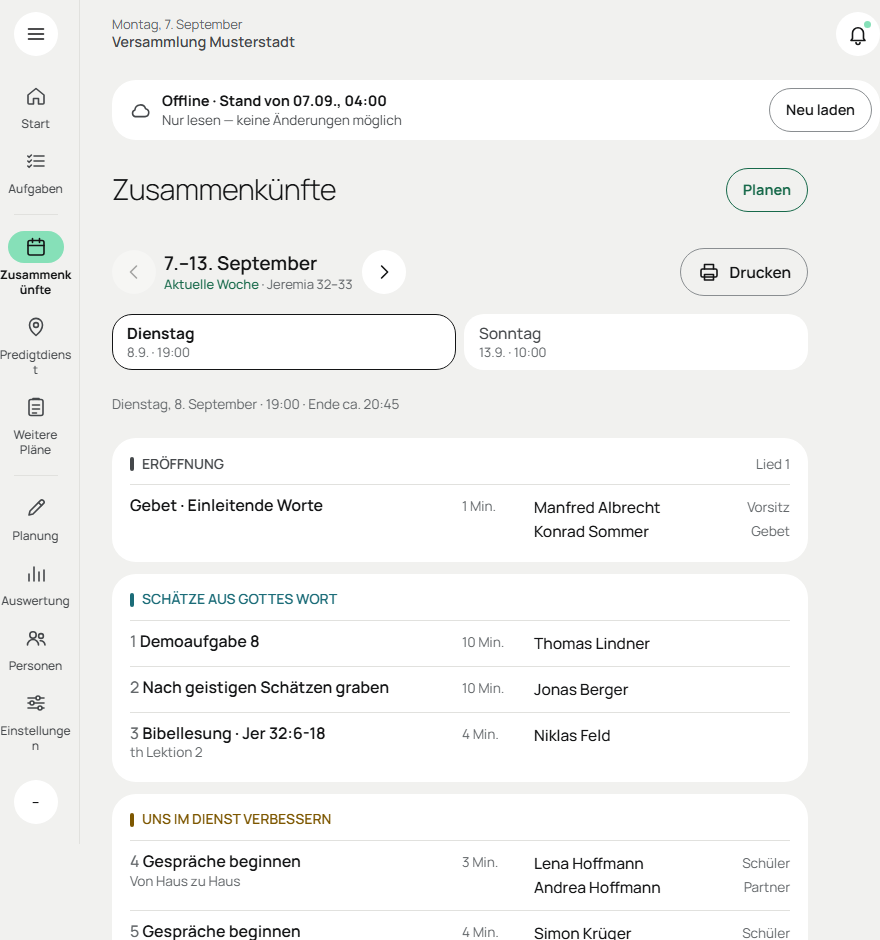
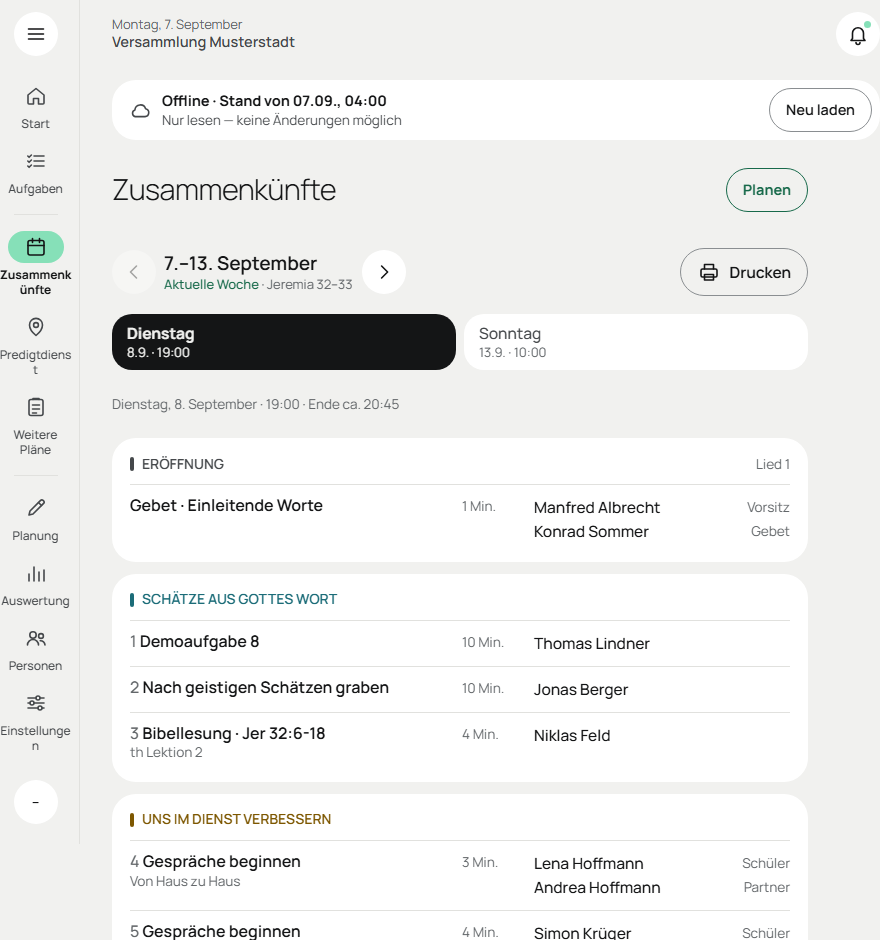
Tageskarten: Der gewählte Tag ist hinterlegt, nicht nur umrandet
Betreiber am 22. Oktober: „welcher der beiden tage selektiert ist, zeigt
nur ein schmaler rand um den button. die darstellung muss deutlicher sein
als nur so ein schmaler rand"

- Die Karten der beiden Zusammenkünfte (`MeetingTabs`, beim Ansehen und
  beim Planen) zeigen den gewählten Tag wie die übrigen Wahlen der App: in
  der Textfarbe hinterlegt, die Schrift in der Farbe des Grunds — in Hell
  dunkel, in Dunkel hell. Datum und Uhrzeit darauf ebenso, blass stünden
  sie auf der Fläche kaum lesbar da.
- `npm run contrast` prüft das Paar Grund auf Text schon für die `Wahl`;
  die Beschreibung nennt jetzt auch Bereich und Tag.
- Handbuch für Verkündiger: „die gewählte ist dunkel hinterlegt (in der
  dunklen Darstellung hell)" statt „hat einen Rand"; vier Bilder mit den
  Tageskarten neu aufgenommen (Woche, Wochenende, Planen, Offline). Zwei
  zeigen dabei auch, was seit ihrer letzten Aufnahme dazukam: kräftigere
  Zeichen in der schmalen Leiste, die Versammlung beim Gastredner.

Geprüft: tsc -b, oxlint, vitest (die neue Probe, kein-wortbruch,
ProgrammScreen, PlanenScreen: 248 Tests), `npm run contrast`,
Mutationsprobe (die beiden neuen Regeln bewacht), in Chrome per CDP
390 × 844 hell und dunkel (Ansehen, Planen) und 1280 × 800 dunkel
(Planen): gewählte Karte voll hinterlegt, keine Fehler in der Konsole.

Changed region(s): [[0.1227, 0.3085, 0.5216, 0.4011]]

diff --git a/tests/tag-wahl-gewaehlt.test.ts b/tests/tag-wahl-gewaehlt.test.ts
@@ -1,0 +1,31 @@
+import { describe, expect, it } from 'vitest'
+import { deklarationen } from './css-quellen'
+
+/**
+ * **Welcher Tag gewählt ist, sieht man auf einen Blick** (Betreiber,
+ * 22.10.2026: „welcher der beiden tage selektiert ist, zeigt nur ein schmaler
+ * rand um den button. die darstellung muss deutlicher sein als nur so ein
+ * schmaler rand").
+ *
+ * Die Karten der beiden Zusammenkünfte (`MeetingTabs`, beim Ansehen und beim
+ * Planen) zeigen den gewählten Tag seitdem wie die übrigen Wahlen der App: in
+ * der Textfarbe hinterlegt, die Schrift in der Farbe des Grunds — auch Datum
+ * und Uhrzeit, die sonst blass auf der dunklen Fläche stünden. Das Paar
+ * Grund auf Text prüft `npm run contrast` in beiden Darstellungen.
+ *
+ * jsdom rechnet kein CSS; gesichert ist hier, dass die Regeln dastehen.
+ */
+
+const DATEI = 'components/components.css'
+
+describe('Die Karten der Zusammenkünfte', () => {
+  it('der gewählte Tag ist in der Textfarbe hinterlegt, nicht nur umrandet', () => {
+    const gewaehlt = deklarationen(DATEI, '.meeting-tab.is-active')
+    expect(gewaehlt).toMatch(/background:\s*var\(--text\)/)
+    expect(gewaehlt).toMatch(/color:\s*var\(--grund\)/)
+  })
+
+  it('Datum und Uhrzeit auf der gewählten Karte stehen in der Farbe des Grunds, nicht blass', () => {
+    expect(deklarationen(DATEI, '.meeting-tab.is-active .meeting-tab-wann')).toMatch(/color:\s*var\(--grund\)/)
+  })
+})

diff --git a/src/components/components.css b/src/components/components.css
@@ -210,9 +210,13 @@
   text-align: start;
 }
 
+/* Der gewählte Tag ist in der Textfarbe hinterlegt, wie der gedrückte Knopf
+   der `Wahl` und der gewählte Bereich des Predigtdienstes. Bis zum 22.10.2026
+   trug er nur einen Rand (Betreiber: „die darstellung muss deutlicher sein als
+   nur so ein schmaler rand"). */
 .meeting-tab.is-active {
-  border-color: var(--text);
-  color: var(--text);
+  background: var(--text);
+  color: var(--grund);
 }
 
 /* Reicht der Platz nicht, trennt der Wochentag nach den Regeln der Sprache
@@ -233,6 +237,10 @@
 .meeting-tab-wann {
   color: var(--text3);
   font-size: calc(13px * var(--fs));
+}
+
+.meeting-tab.is-active .meeting-tab-wann {
+  color: var(--grund);
 }
 
 /* ---- Bereichs-Panels ------------------------------------------------------

diff --git a/src/components/MeetingTabs.tsx b/src/components/MeetingTabs.tsx
@@ -37,8 +37,8 @@ interface MeetingTabsProps {
 /**
  * **Die beiden Zusammenkünfte der Woche als Karten** (T121, `GAnsehenWoche`):
  * je Karte der Wochentag, darunter Datum und Uhrzeit — „Dienstag · 8.9. ·
- * 19:00". Die gewählte trägt einen Rand. Eine ausgefallene steht
- * durchgestrichen da (T30).
+ * 19:00". Die gewählte ist in der Textfarbe hinterlegt, wie der gedrückte
+ * Knopf der `Wahl`. Eine ausgefallene steht durchgestrichen da (T30).
  *
  * Vorgelesen wird „Versammlung Dienstag, 8.9. · 19:00" (`versammlungTag`): Der
  * Wochentag allein unterschiede die Karten, sagte aber nicht, wofür sie stehen.

diff --git a/docs/user-guide/verkuendiger.md b/docs/user-guide/verkuendiger.md
@@ -109,7 +109,8 @@ Bibellesen der Woche. Auf dem Handy oder Tablet kannst du stattdessen auch
 Federt die Ansicht zurück, gibt es in der Richtung keine Woche mehr.
 
 Darunter stehen die beiden Zusammenkünfte als Karten, je mit Tag, Datum und
-Uhrzeit; die gewählte hat einen Rand. Fällt eine aus, ist ihr Tag
+Uhrzeit; die gewählte ist dunkel hinterlegt (in der dunklen Darstellung hell).
+Fällt eine aus, ist ihr Tag
 durchgestrichen, und im Programm steht der Grund. Im Programm hat jeder
 Abschnitt seine Karte mit der Farbe des Arbeitshefts, das Lied steht rechts im
 Kopf. Neben jedem Punkt steht seine Dauer, darunter die Eingeteilten, ihre
